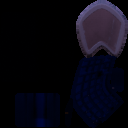
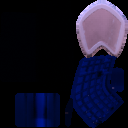
* demoscene work

diff --git a/core/src/com/lostagain/nl/GWTish/tests/DemoScene.java b/core/src/com/lostagain/nl/GWTish/tests/DemoScene.java
@@ -36,9 +36,11 @@ public class DemoScene {
 	//		GWTishModelManagement.addmodel(wallInstance);		
 		 
 		//set all "background" models loading
-		//Wall;
+		//Walls etc;
 			Gwtish.assets.load("walls.g3db", Model.class);
 			Gwtish.assets.load("floor.g3db", Model.class);
+			Gwtish.assets.load("roof_reflect.g3db", Model.class);
+			Gwtish.assets.load("roof.g3db", Model.class);
 			
 		//Edge:
 			Gwtish.assets.load("flooredge.g3db", Model.class);
@@ -103,7 +105,7 @@ public class DemoScene {
 					@Override
 					public void onClick() {
 						// move cam
-						Gwtish.cam.position.set(-25f, 120f, -85f); //focus on calender
+						Gwtish.cam.position.set(-25f, 120f, -95f); //focus on calender
 						Gwtish.cam.lookAt(5f, 97, -95);
 					}
 				});
@@ -129,6 +131,12 @@ public class DemoScene {
 	        ModelInstance flooredgeInstance = new ModelInstance(flooredge); 
 	        GWTishModelManagement.addmodel(flooredgeInstance);		
 //		
+	        Model roof = Gwtish.assets.get("roof.g3db", Model.class);
+	        ModelInstance roofInstance = new ModelInstance(roof); 
+	        GWTishModelManagement.addmodel(roofInstance);	
+	        Model roof_reflect = Gwtish.assets.get("roof_reflect.g3db", Model.class);
+	        ModelInstance roof_reflectInstance = new ModelInstance(roof_reflect); 
+	        GWTishModelManagement.addmodel(roof_reflectInstance);	
 //
 	        Model table = Gwtish.assets.get("table.g3db", Model.class);
 	        ModelInstance tableInstance = new ModelInstance(table); 
